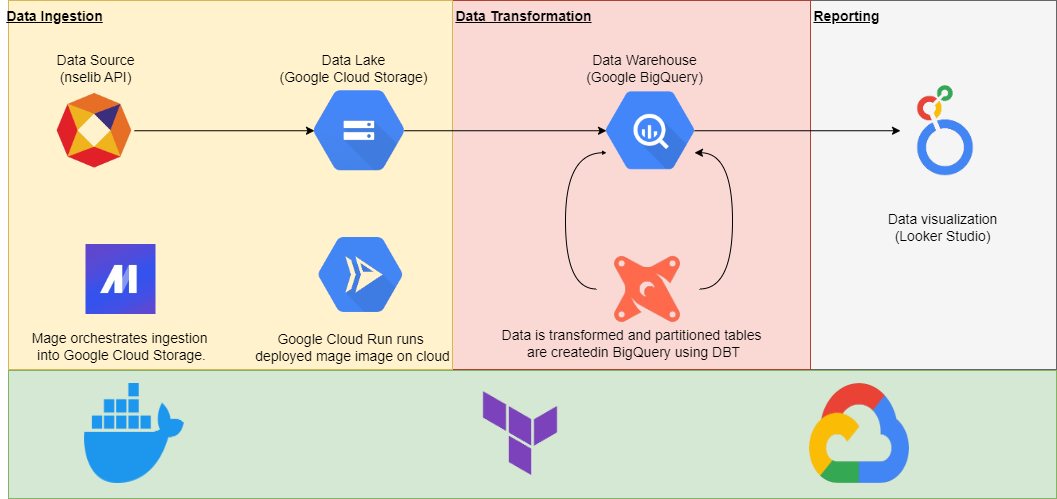
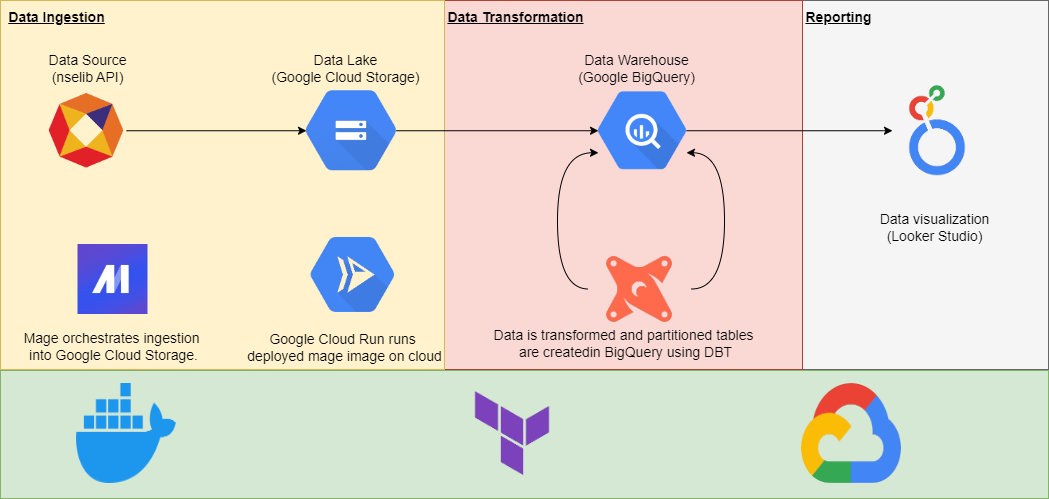
Dashboard

diff --git a/README.md b/README.md
@@ -12,15 +12,17 @@
 ## Problem statement  
 The aim of this project is to build an end-to-end data pipeline (including a dashboard) for analysing and visualizing National Stock Exchange (NSE) data.
 
-~~*What the problem the project solves?*~~
-
 This project provides a simple dashboard for viewing trends and insights of NSE on a daily basis.
 
 This dashboard could help answer questions such as:
+1. Sector wise trade activity
+1. Industry wise trade activity
+1. Biggest increased/decreased stocks
+1. Change percent of a particular stock
 
 ## Dataset
 
-This project uses the nselib python package to fetch bhavcopy data.
+This project uses the nselib python package to fetch bhavcopy data. Expected volume from source is around `2500 records per day`
 
 #### What is bhavcopy?
 
@@ -36,24 +38,27 @@ This project uses the nselib python package to fetch bhavcopy data.
 
 ## Tools and Technologies used
 
- * Docker + Docker-compose - Used to maintain consistent versions across environments and define/share multi-containers
+ * **Docker + Docker-compose** - Used to maintain consistent versions across environments and define/share multi-containers
  
- * [Mage](./mage.md) - Used to create and orchestrate the ETL (extract, transform, load) pipelines for the stock data analysis project.
+ * **[Mage](./mage.md)** - Used to create and orchestrate the ETL (extract, transform, load) pipelines for the stock data analysis project.
 
- * Terraform - Used to automate the deployment and management of infrastructure on Google Cloud Platform (GCP)
+ * **Terraform** - Used to automate the deployment and management of infrastructure on Google Cloud Platform (GCP)
 
- * GCP 
+ * **GCP** 
     * [BigQuery](./bigquery.md) is used as data-warehouse to store and query the stock data 
 
     * Google Cloud Storage is used as data lake to store the raw data before it is transformed
 
-    * Cloud Run is used for running deployed Mage pipelines on cloud
+    * [Cloud Run](./mage_gcp_deployment.md) is used for running deployed Mage pipelines on cloud
+    
+    * [looker_studio](./looker_studio.md) - Used for creating a dashboard to visaulize the data
 
- * [dbt](./dbt.md) - Used to transform the raw stock data to make it more suitable for analysis.
+ * **[dbt](./dbt.md)** - Used to transform the raw stock data to make it more suitable for analysis.
+
 
  ## Architecture
 
- ![Architecture image](images\nse-architecture.png "Architecture")
+ ![Architecture image](images/nse-architecture.png "Architecture")
 
 ## Trying out yourself!
 
@@ -65,11 +70,23 @@ This project uses the nselib python package to fetch bhavcopy data.
   - [Mage](./setup.md#mage)
   - [DBT](./setup.md#dbt)
 
+## Dashboard
 
-## 
+[LookerStudio Link](https://lookerstudio.google.com/reporting/989469a8-23d3-47c0-8f04-6df30224075f)
+
+  Overall_market Page
+   ![Overall_market ](images/Overall_market.png "Overall_market")
+
+  Symbol Wise Reports
+  ![symbol_wise_reports ](images/symbol_wise_reports.png "symbol_wise_reports")
+
+  > Stocks that have their current price above the 50-day moving average indicate that the stock is experiencing a bullish trend and have the potential to reach a higher stock price and vice versa
+
 
 Special thanks to  [DataTalks.Club](https://datatalks.club/) for 
 offering this Data Engineering course completely free
+
+
 
 *(This project is the course-project of data-engineering-zoomcamp 2024*
 

diff --git a/mage_gcp_deployment.md b/mage_gcp_deployment.md
@@ -1,0 +1,66 @@
+# Deploy Mage to GCP
+
+## GCP Permissions
+
+Before proceeding, make sure service account has following roles assigned and all the below APIs are enabled.
+
+### List of roles
+1. Artifact Registry Reader
+1. Artifact Registry Writer
+1. BigQuery Admin
+1. Cloud Filestore Editor
+1. Cloud Run Admin
+1. Cloud Run Developer
+1. Cloud Run Service Agent
+1. Cloud SQL Admin
+1. Compute Admin
+1. Quota Administrator
+1. Serverless VPC Access Admin
+1. Service Account Token Creator
+1. Service Usage Admin
+1. Storage Admin
+
+### List of APIs
+
+1. Cloud Run Admin API
+1. Compute Engine API
+1. Cloud Resource Manager API
+1. Cloud SQL Admin API
+1. BigQuery API
+1. Serverless VPC Access API
+1. Cloud Filestore API
+1. Service Usage API
+1. Kubernetes Engine API
+1. Dataform API
+1. Cloud Dataplex API
+1. Analytics Hub API
+1. Artifact Registry API
+1. Backup for GKE API
+1. BigQuery Connection API
+1. BigQuery Data Policy API
+1. BigQuery Migration API
+1. BigQuery Reservation API
+1. BigQuery Storage API
+1. Cloud Autoscaling API
+1. Cloud Deployment Manager V2 API
+1. Cloud DNS API
+1. Cloud Logging API
+1. Cloud Monitoring API
+1. Cloud OS Login API
+1. Cloud Pub/Sub API
+1. Cloud Storage
+1. Container File System API
+1. Container Registry API
+1. Google Cloud Storage JSON API
+1. IAM Service Account Credentials API
+1. Identity and Access Management (IAM) API
+1. Network Connectivity API
+1. Secret Manager API
+
+## Authentication:
+  Run following command with your key file
+  ```sh
+  export GOOGLE_APPLICATION_CREDENTIALS='<Path to GCP service-account key.json>
+  ```
+
+  After Creating all the infrastructure via terraform, go to https://console.cloud.google.com/run and whitelist your ip to access mage run

diff --git a/dbt.md b/dbt.md
@@ -16,11 +16,20 @@ DBT is used for data modelling, applying transforms and create partitioned table
 - dim_symbols
   - Dimension table containing information about equity-symbols
 
+- dim_sectors
+  - Dimension table containing information about sector and industry details of symbols
+
+- dim_market_cap
+  - Dimension table containing information about market-cap and categorization of symbols
+
 - fact_equity
   - Fact table for daily equities bhav_copy data in NSE
   - Partitioned by `timestamp` column to enhance querying
 
 *Note: Detailed documentation is available in dbt documentation*
+
+### Lineage:
+   ![Lineage image](images/fact_table_lineage.png "Lineage")
 
 ## Transformations:
 

diff --git a/looker_studio.md b/looker_studio.md
@@ -1,0 +1,14 @@
+# Looker Studio
+
+Google Looker studio is used as reporting tool for this project
+
+We have two pages in our report
+
+1. Overall Market
+    - Sector wise trade activity
+    - Industry wise trade activity
+    - Biggest increased/decreased stocks
+1. Symbol Wise Reports
+    - Basic details about a particular stock
+    - Candlestick for recent time
+    - Close price and 50 days moving average from 2020 to today

diff --git a/mage.md b/mage.md
@@ -22,7 +22,7 @@ We have two pipelines which are built locally and deployed in cloud
     - Transformer `transform_index`
     - Data Exporter `export_daily_index_gcs` 
 
-  Transformation applied: 
+  Transformations applied: 
 
     -  Assign appropriate data types 
     
